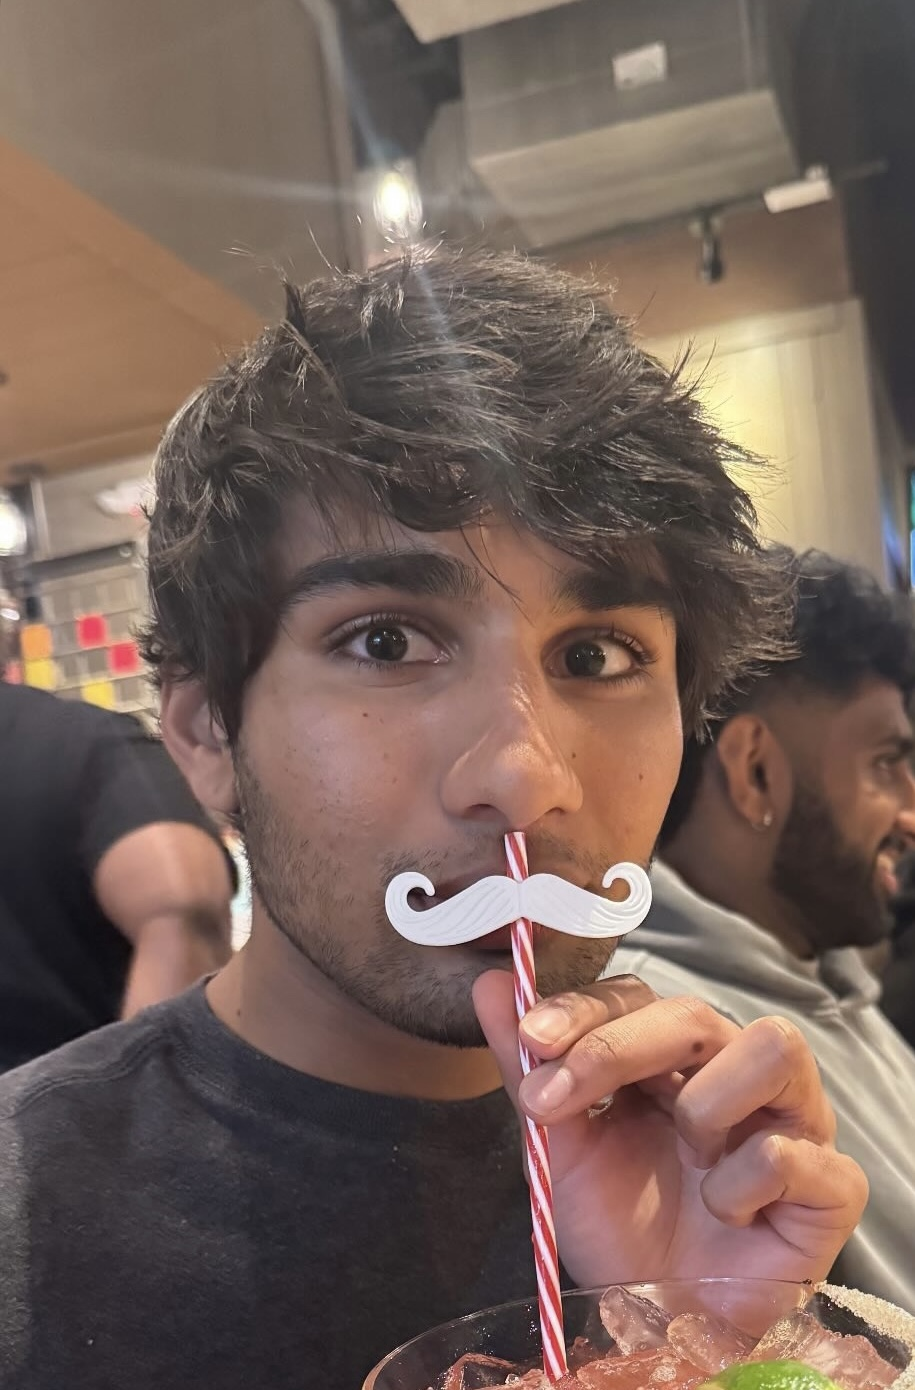
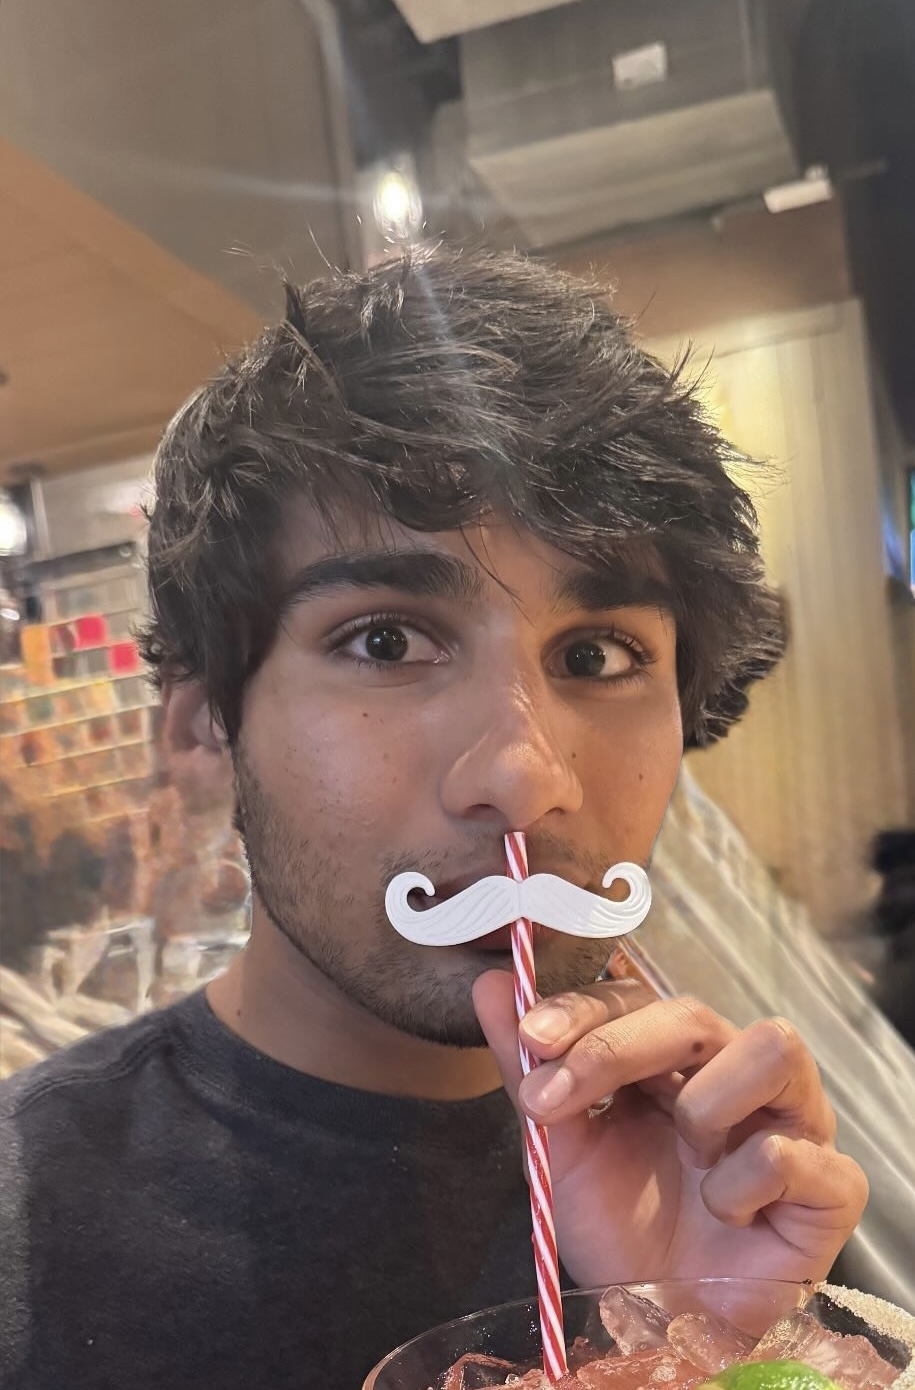
intro change, pic clean up

diff --git a/pages/index.js b/pages/index.js
@@ -62,7 +62,7 @@ export default function Home() {
               </div>
             </div>
             <div className="text-gray-400 text-center pt-8 pb-16 md:pb-8 md:px-8">
-              Hey there, I'm Yash Bardhan. I'm a full-time swe @ <Link href="https://www.schwab.com/" target="_blank" rel="noopener noreferrer" className="underline text-gray-300 hover:text-blue-500" passHref> Charles Schwab</Link>. I'm also pursuing a graduate degree in CS at UT Austin. {/* <Link href="https://manaflow.ai" target="_blank" rel="noopener noreferrer" className="underline text-gray-300 hover:text-blue-500" passHref> */} {/*  </Link> */} My background spans from experience at <Link href="https://opensource.fb.com/partnerships/major-league-hacking/" target="_blank" rel="noopener noreferrer" className="underline text-gray-300 hover:text-blue-500" passHref> Meta</Link>, <Link href="https://www.stanford.edu/" target="_blank" rel="noopener noreferrer" className="underline text-gray-300 hover:text-blue-500" passHref>Stanford</Link>, and more. <br /><br />
+              Hey there, I'm Yash Bardhan. I'm a full-time SWE @ <Link href="https://www.schwab.com/" target="_blank" rel="noopener noreferrer" className="underline text-gray-300 hover:text-blue-500" passHref> Charles Schwab</Link>. I'm also pursuing my masters in CS at UT Austin. {/* <Link href="https://manaflow.ai" target="_blank" rel="noopener noreferrer" className="underline text-gray-300 hover:text-blue-500" passHref> */} {/*  </Link> */} My background spans from experience at <Link href="https://opensource.fb.com/partnerships/major-league-hacking/" target="_blank" rel="noopener noreferrer" className="underline text-gray-300 hover:text-blue-500" passHref> Meta</Link>, <Link href="https://www.stanford.edu/" target="_blank" rel="noopener noreferrer" className="underline text-gray-300 hover:text-blue-500" passHref>Stanford</Link>, and more. <br /><br />
 
               Interested in low level development. Take a look at what I've done and shoot me an <Link href='mailto:yash.bardhan09@gmail.com' target="_blank" rel="noopener noreferrer" className="underline text-gray-300 hover:text-blue-500" passHref> email</Link> if you have any questions. <br></br><br></br>
 
